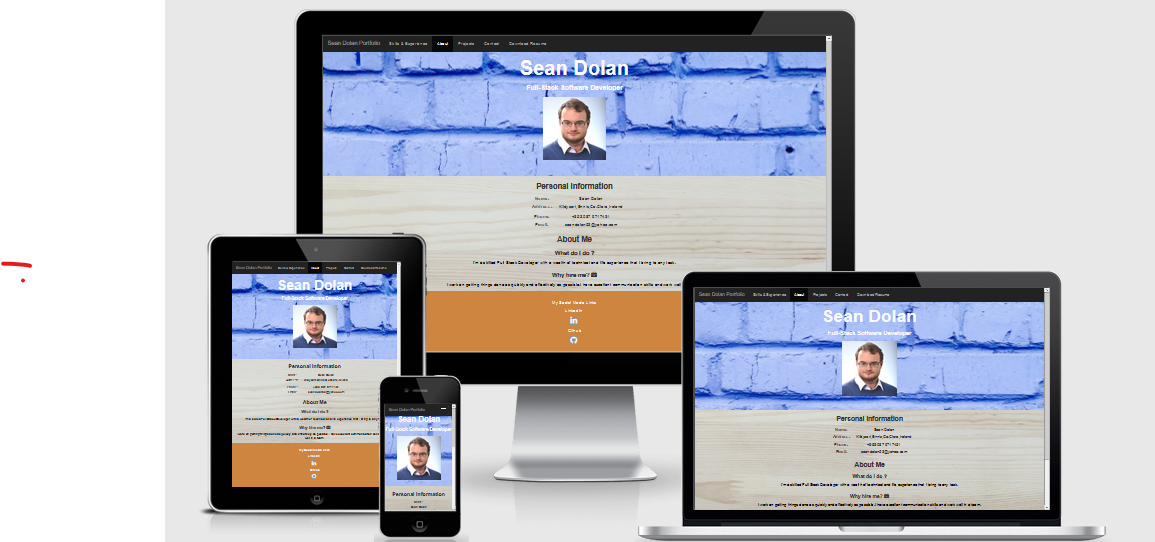
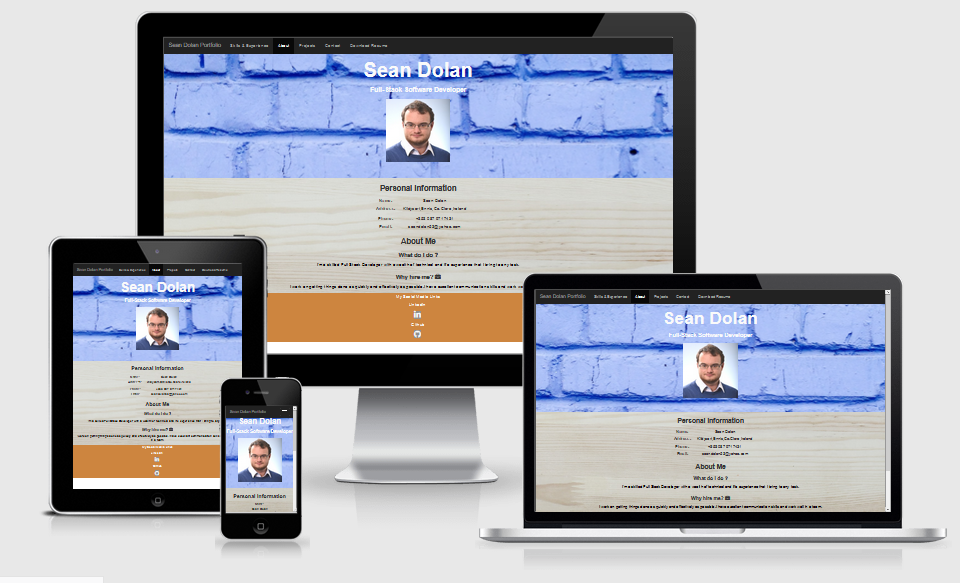
Fixed margin on the footer section

diff --git a/assets/css/style.css b/assets/css/style.css
@@ -3,7 +3,7 @@ footer {
     background-color: peru;
     color: #fafafa;
     text-align: center;
-    margin-bottom: 0;
+    margin-top: 0;
 }
 .social-links li a i {
     color: #fafafa;
